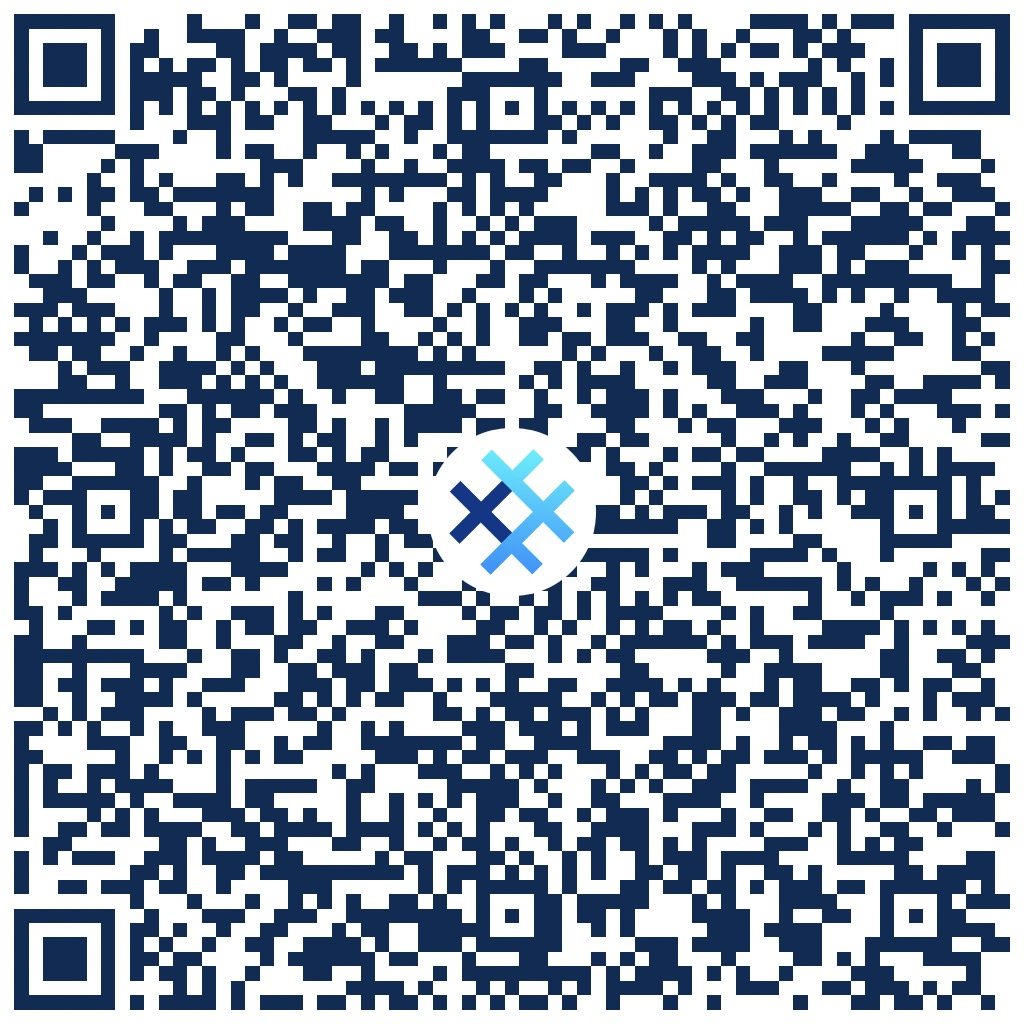
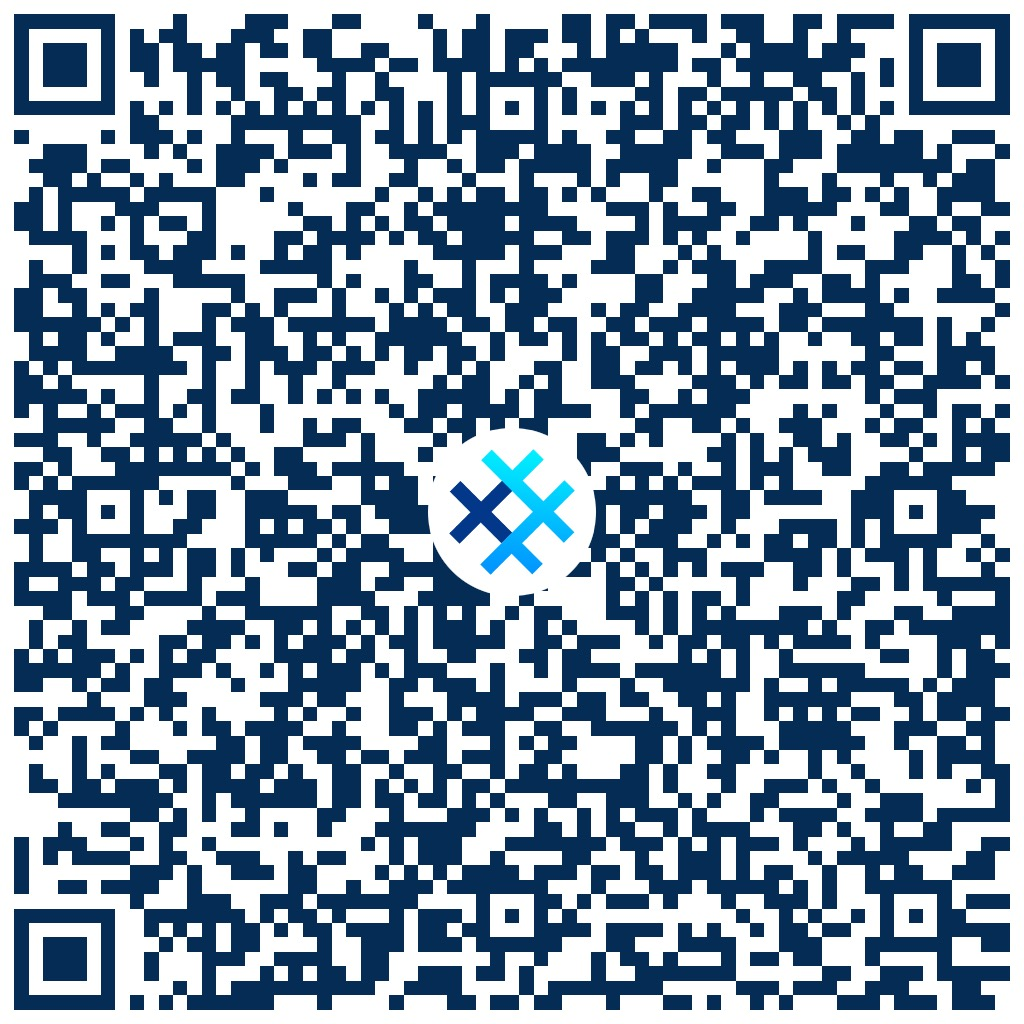
SimpleX

diff --git a/content/simplex.md b/content/simplex.md
@@ -14,6 +14,8 @@ author:
 comments: false
 ---
 
-You can add me on SimpleX by clicking [this link](https://simplex.chat/contact#/?v=1-2&smp=smp%3A%2F%2F0YuTwO05YJWS8rkjn9eLJDjQhFKvIYd8d4xG8X1blIU%3D%40smp8.simplex.im%2FLeseGOnHBaihXD7lvbULjc3gziGk-yLP%23%2F%3Fv%3D1-2%26dh%3DMCowBQYDK2VuAyEAXKoK0kmETtNWHD7MXEhm5wzj368GFVFEt8Z3kT-QryE%253D%26srv%3Dbeccx4yfxxbvyhqypaavemqurytl6hozr47wfc7uuecacjqdvwpw2xid.onion) on your phone, or scanning this QR code:
+You can add me on SimpleX by clicking [this link](https://simplex.chat/contact#/?v=1-4&smp=smp%3A%2F%2FZKe4uxF4Z_aLJJOEsC-Y6hSkXgQS5-oc442JQGkyP8M%3D%40smp17.simplex.im%2FOymN4t_p_UnOlcN-6prErTqT_T2alSOZ%23%2F%3Fv%3D1-2%26dh%3DMCowBQYDK2VuAyEAAse_Pes4-8YNsGyPhT7XFEm8PDv8AcXwLmbvbHERBmc%253D%26srv%3Dogtwfxyi3h2h5weftjjpjmxclhb5ugufa5rcyrmg7j4xlch7qsr5nuqd.onion) on your phone, or scanning this QR code:
 
 ![SimpleX QR Code](/simplex.jpg)
+
+**December 11, 2023 update:** I've created a new SimpleX account, please use the newly updated QR code or link on this page to message me.

diff --git a/content/accounts.md b/content/accounts.md
@@ -23,6 +23,7 @@ The best way to get in touch with me is via email at jonah@triplebit.net.
 I am not generally available via IM and will likely not respond to any message requests in a timely manner, but if you do receive a message from me, I use the following accounts:
 
 - Matrix: [`@jonah:neat.chat`](https://matrix.to/#/@jonah:neat.chat)
+- SimpleX: [QR Code](/simplex)
 - Signal: if you have my number.
 - iMessage: My public verification code is `APKTID2n1WVYFiR3FuzlTrWYsO_v0kJ6EWGkNbwXQBjm3vMINpZA`. You can add it to my contact card on your iPhone by editing my contact in the *Contacts* app, and selecting **add verification code** towards the bottom of the editor.
 
